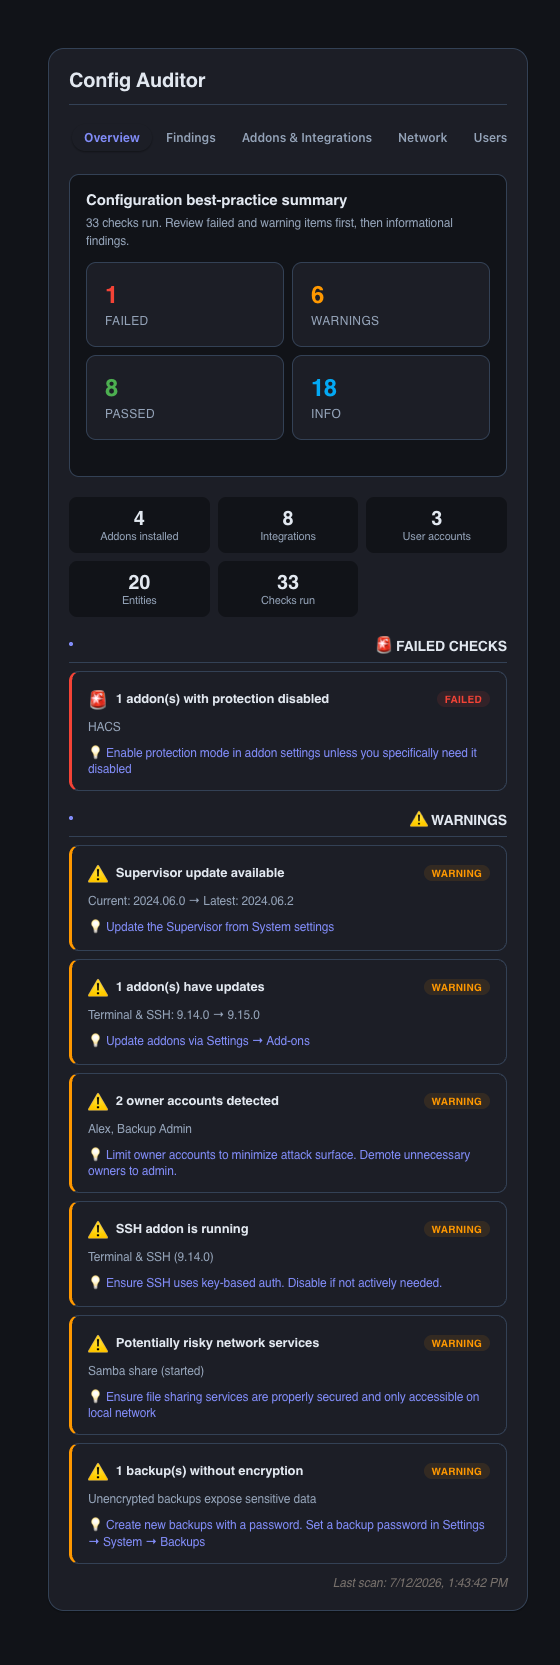
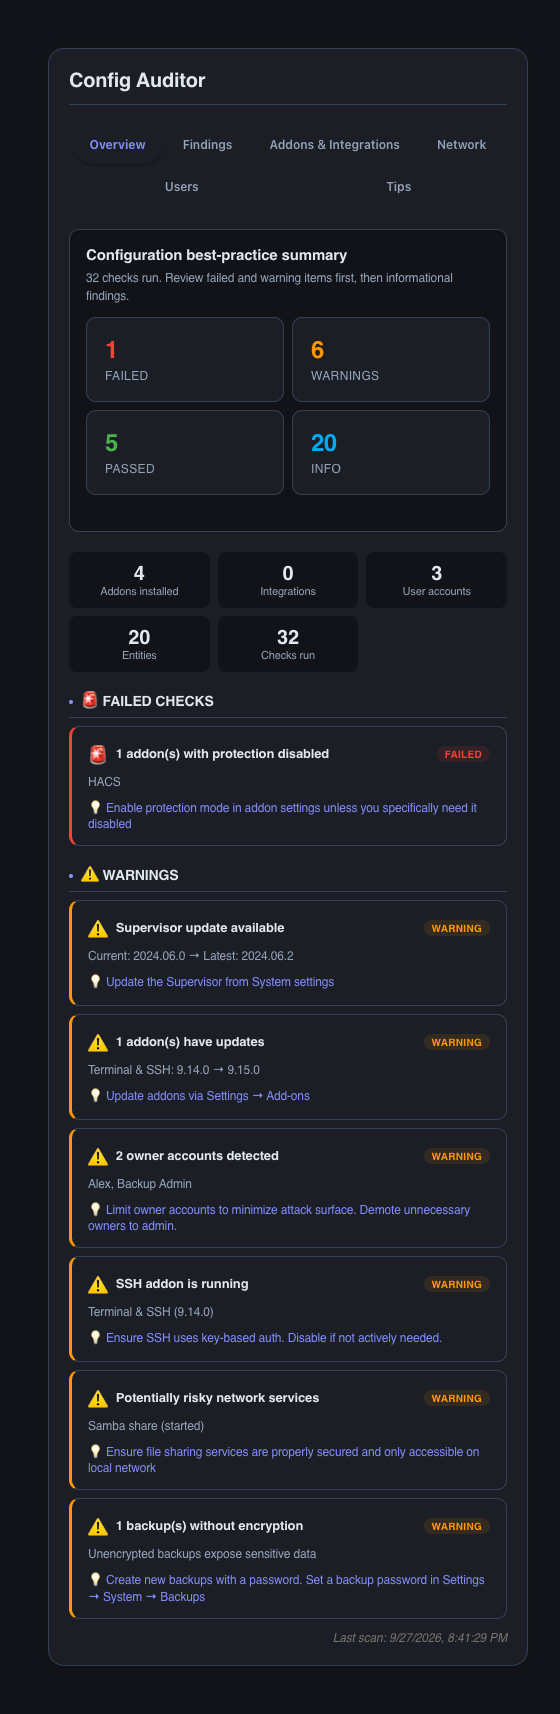
Refresh current tool screenshots and descriptions

diff --git a/README.md b/README.md
@@ -76,9 +76,9 @@ instead of guessing.
 |---|---|
 | ![Overview tab, light theme](docs/screenshots/card-overview-light.png) | ![Overview tab, dark theme](docs/screenshots/card-overview-dark.png) |
 
-*Overview tab: check summary (Failed / Warnings / Passed / Info), key counts
-and the Failed/Warning findings. Dark mode follows your Home Assistant theme
-automatically.*
+*Overview tab with synthetic checks: Failed, Warnings, Passed and Info counts,
+plus example findings. No household configuration appears in the image. Dark
+mode follows your Home Assistant theme.*
 
 ## Installation
 
